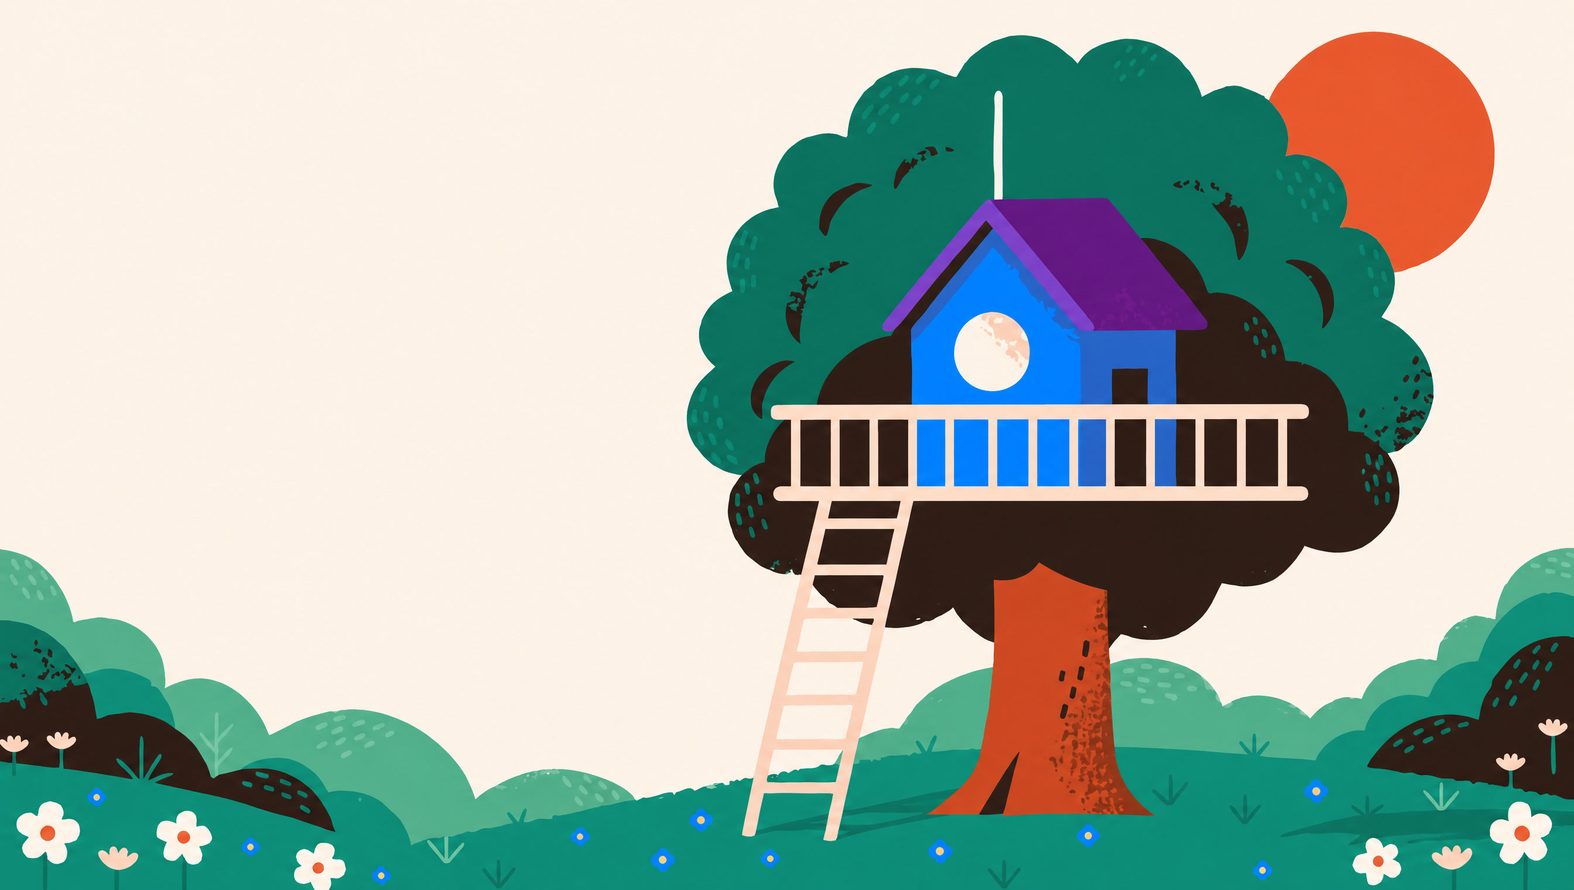
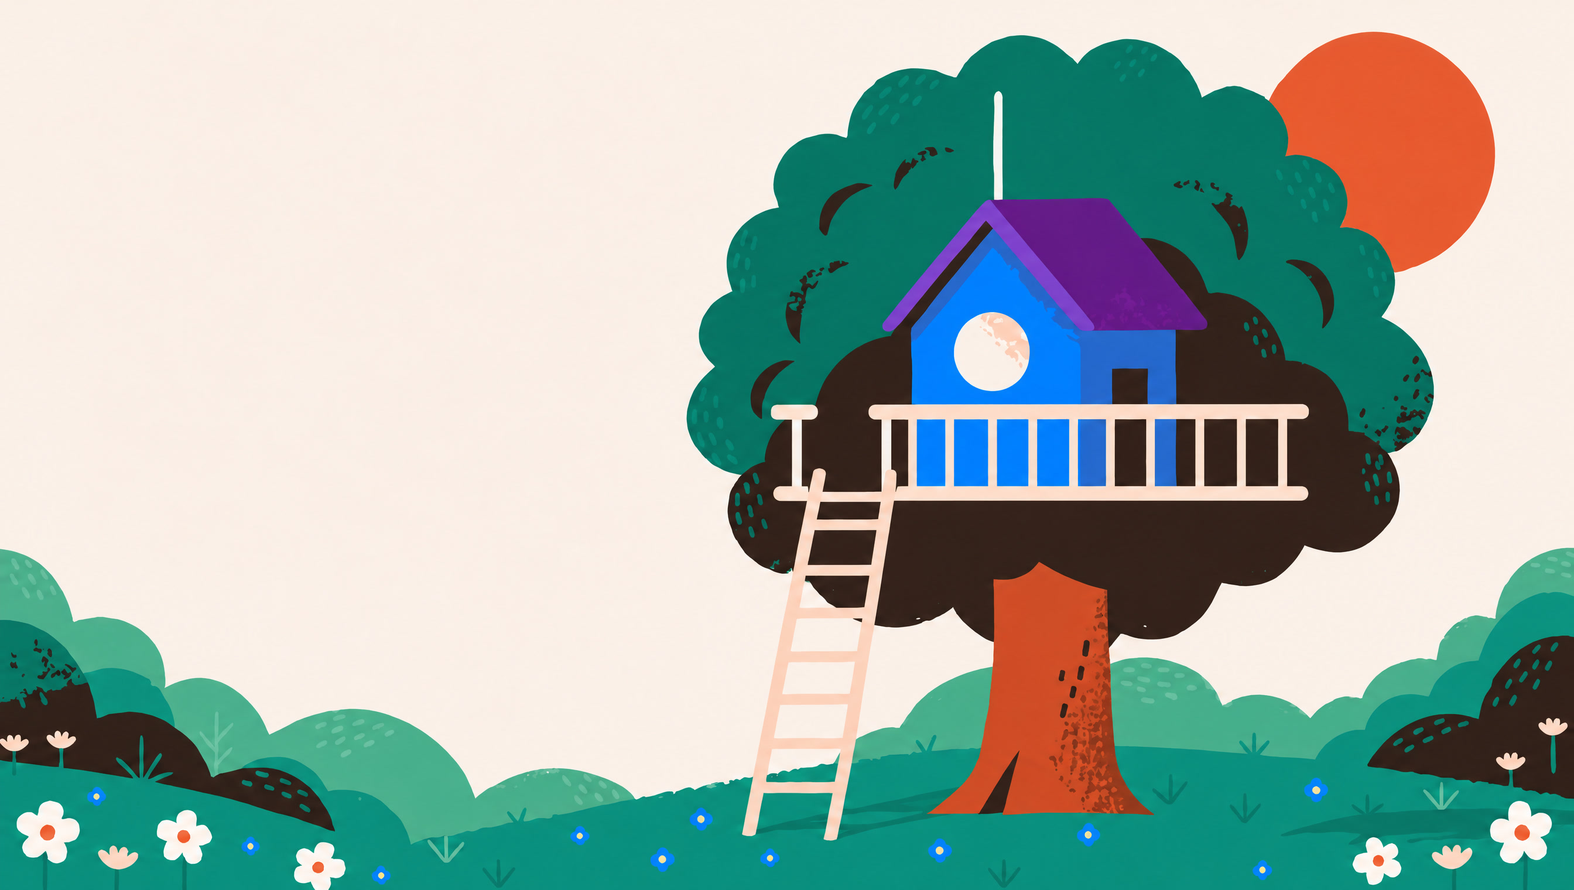
Fix the intro video's treehouse railing and the animatic's review findings
The railing opens for the ladder and for the slide; the village is
rebuilt around the same treehouse; the end card keeps the motto at the
top with the guide line under the name; the animatic's timing, layout,
and continuity follow its independent review.

Claude-Session: https://claude.ai/code/session_01HWRLNP4zRgNHV44X9u2tkQ

diff --git a/docs/video/intro/animatic-page.js b/docs/video/intro/animatic-page.js
@@ -19,16 +19,20 @@ const fade = (o, inner) => o <= 0 ? '' : `<g opacity="${clamp(o).toFixed(3)}">${
 const R = `<line x1="43.5" y1="34" x2="43.5" y2="23" stroke="${CREAM}" stroke-width="5"/><circle cx="43.5" cy="19" r="5.5" fill="${CREAM}"/><rect x="36" y="32" width="15" height="66" fill="${CREAM}"/><path d="M43.5 39.5 H68 a18.5 18.5 0 0 1 0 37 H43.5" fill="none" stroke="${CREAM}" stroke-width="15"/><polygon points="56,76 77,76 99,98 78,98" fill="${CREAM}"/><circle cx="65" cy="58" r="6.5" fill="${INK}"/>`;
 const face = (x, y, brand) => { const bar = (bx, by, w) => `<rect x="${bx}" y="${by}" width="${w}" height="8" rx="4"/>`;
   return brand ? `<svg x="${x}" y="${y}" width="76" height="76" viewBox="0 0 128 128"><rect width="128" height="128" rx="26" fill="${O}"/><path d="M0 26 A26 26 0 0 1 20 1 V127 A26 26 0 0 1 0 102 Z" fill="${SP}"/><g transform="translate(9 8.5) scale(.64)">${R}</g><g fill="${TI}">${bar(79, 29, 29)}${bar(79, 46, 29)}${bar(79, 63, 29)}${bar(32, 82, 76)}${bar(32, 97, 50)}</g></svg>`
-    : `<rect x="${x}" y="${y}" width="76" height="76" rx="16" fill="#A8A297"/><circle cx="${x + 26}" cy="${y + 34}" r="6" fill="#ECE7DF"/><circle cx="${x + 50}" cy="${y + 34}" r="6" fill="#ECE7DF"/>`; };
+    : `<rect x="${x}" y="${y}" width="76" height="76" rx="16" fill="#A8A297"/>`; };
 function bubble(who, s, y, p, brand, typed = 1) {
   if (p <= 0) return '';
-  const size = 34, pad = 28, h = 72, x = who === 'you' ? 110 : 200, w = Math.round(s.length * size * .56) + pad * 2;
-  const shown = s.slice(0, Math.ceil(s.length * clamp(typed)));
-  return pop(p, x + 40, y + 36, `<g filter="url(#soft)">${who === 'you' ? '' : face(x - 90, y - 2, brand)}<rect x="${x}" y="${y}" width="${w}" height="${h}" rx="36" fill="${who === 'you' ? INK : '#FFFFFF'}"/>${txt(shown, x + pad, y + 47, size, who === 'you' ? CREAM : INK, 500)}</g>`);
+  const size = 34, pad = 28, lines = s.split('\n'), h = 72 + 42 * (lines.length - 1), x = who === 'you' ? 110 : 200;
+  const w = Math.round(Math.max(...lines.map((l) => l.length)) * size * .56) + pad * 2;
+  let left = Math.ceil(s.length * clamp(typed));
+  const shown = lines.map((l) => { const part = l.slice(0, Math.max(0, left)); left -= l.length + 1; return part; });
+  return pop(p, x + 40, y + 36, `<g filter="url(#soft)">${who === 'you' ? '' : face(x - 90, y - 2, brand)}<rect x="${x}" y="${y}" width="${w}" height="${h}" rx="36" fill="${who === 'you' ? INK : '#FFFFFF'}"/>${shown.map((l, i) => txt(l, x + pad, y + 47 + 42 * i, size, who === 'you' ? CREAM : INK, 500)).join('')}</g>`);
 }
 // rows: [who, words, at]. Your words are typed as they arrive. Rows stack down from y0.
 const talk = (rows, t, brand, y0 = 290, gap = 88) => rows.map(([who, s, at], i) => bubble(who, s, y0 + i * gap, at < 0 ? 1 : prog(t, at, .35), brand, who === 'you' && at >= 0 ? prog(t, at + .1, Math.min(.9, s.length * .035)) : 1)).join('');
 const heading = (t, a, b, colourB, size = 60, atB = .45) => rise(prog(t, .1), txt(a, 110, 140, size, INK)) + (b ? rise(prog(t, atB), txt(b, 110, 140 + size * 1.15, size, colourB)) : '');
+// A picture of the slide alone over the flag picture: the slide arrives and nothing else changes.
+const slideIn = (p, scale = 1, cx = 960, cy = 540) => { show('08-flag', 1, scale, cx, cy); if (p > 0) { clipRect(0, 0, 1920, 1080 * p); show('09-slide-diff', 1, scale, cx, cy, 'clipA'); } };
 
 /* The page: pictures below, words above. */
 const film = document.getElementById('film');
@@ -57,32 +61,32 @@ const dissolve = (a, b, p, fn = show) => { fn(a, 1); fn(b, ease(p)); };
 const BEATS = [
   // 1. The idea.
   { name: 'idea', dur: 2.5, draw: (t) => { show('01-hill');
-      return heading(t, 'You have an idea.') + talk([['you', 'Build me a treehouse.', .7]], t, false); } },
+      return heading(t, 'You have an idea.') + talk([['you', 'Build me a treehouse.', .3]], t, false); } },
   // 2. Literal: the colour drains, and a box appears with no way up.
   { name: 'literal', dur: 4.5, draw: (t) => { show('01-hill'); show('01-hill-ash', ease(prog(t, 0, .6))); show('02-box-ash', ease(prog(t, .7, .3)));
-      return heading(t, 'Exactly what you said.', 'Not what you meant.', MUTED) + talk([['you', 'Build me a treehouse.', -1], ['agent', 'Done! One treehouse.', 1], ['you', 'How do I get up?', 2.6]], t, false); } },
+      return heading(t, 'Exactly what you said.', 'Not what you meant.', MUTED) + talk([['you', 'Build me a treehouse.', -1], ['agent', 'Done! One treehouse.', .9], ['you', 'How do I get up?', 2]], t, false); } },
   // 3. One change: everything changes, so the new picture wipes across.
   { name: 'one-change', dur: 5.5, draw: (t) => { show('02-box-ash'); const p = inout(prog(t, 1.3, .7)); clipRect(0, 0, 1920 * p, 1080); show('03-pine-ash', p > 0 ? 1 : 0, 1, 960, 540, 'clipA');
-      return heading(t, 'You ask for one change.', 'Everything else changes too.', MUTED) + talk([['you', 'Add a ladder.', .3], ['agent', 'Added! One ladder.', 1.5], ['you', 'Why is it a pine tree?', 3.2]], t, false); } },
+      return heading(t, 'You ask for one change.', 'Everything else changes too.', MUTED, 52) + talk([['you', 'Add a ladder.', .2], ['agent', 'Added! One ladder.', 1.3], ['you', 'Why is it a pine tree?', 2.7]], t, false); } },
   // 4. An addition: the slide, the one thing in colour, lands on the ladder.
   { name: 'addition', dur: 5, draw: (t) => { show('03-pine-ash'); ash('04-slide-on-ladder', ease(prog(t, 1.3, .3)));
-      return heading(t, 'You add what you forgot.', 'It gets bolted on.', MUTED) + talk([['you', 'And a slide.', .3], ['agent', 'Added! One slide.', 1.4], ['you', "It's blocking the ladder.", 2.9]], t, false); } },
+      return heading(t, 'You add what you forgot.', 'It gets bolted on.', MUTED) + talk([['you', 'And a slide.', .2], ['agent', 'Added! One slide.', 1.2], ['you', "It's blocking the ladder.", 2.3]], t, false); } },
   // 5. Micromanaging: one order, and the questions pile up.
   { name: 'micromanage', dur: 8, draw: (t) => { ash('04-slide-on-ladder');
       return heading(t, 'So you micromanage.', 'Now it asks about everything.', MUTED) + talk([['you', 'Ask before you change anything.', .6], ['agent', 'May I pick up the hammer?', 2.4], ['agent', 'May I use the hammer?', 3.7], ['agent', 'May I put the hammer down?', 5]], t, false); } },
   // 6. Next session: the conversation is wiped, and a second box appears.
-  { name: 'next-session', dur: 5.5, draw: (t) => { ash('04-slide-on-ladder'); ash('05-second-box', ease(prog(t, 4.2, .3)));
+  { name: 'next-session', dur: 5.5, draw: (t) => { ash('04-slide-on-ladder'); ash('05-second-box', ease(prog(t, 3.3, .4)));
       const gone = 1 - ease(prog(t, 0, .45)), line = ease(prog(t, .45, .4));
       const old = fade(gone, `<g transform="translate(0 ${(-60 * (1 - gone)).toFixed(1)})">${heading(9, 'So you micromanage.', 'Now it asks about everything.', MUTED)}${talk([['you', 'Ask before you change anything.', -1], ['agent', 'May I pick up the hammer?', -1], ['agent', 'May I use the hammer?', -1], ['agent', 'May I put the hammer down?', -1]], 9, false)}</g>`);
-      const divider = fade(line, `<line x1="110" y1="276" x2="${(110 + 470 * line).toFixed(1)}" y2="276" stroke="${MUTED}" stroke-width="3" stroke-dasharray="10 9"/>${txt('New session', 600, 286, 30, MUTED, 700)}`);
+      const divider = fade(line, `<line x1="110" y1="276" x2="${(110 + 470 * line).toFixed(1)}" y2="276" stroke="${MUTED}" stroke-width="3" stroke-dasharray="10 9"/>${txt('New session', 600, 288, 34, MUTED, 700)}`);
       return old + (t > .5 ? heading(t - .5, 'The next session,', 'it remembers nothing.', MUTED) : '') + divider
-        + talk([['you', "Let's keep going.", 1.2], ['agent', 'Sure! What are we working on?', 2.2], ['you', 'The treehouse.', 3.3], ['agent', 'Done! One treehouse.', 4.3]], t, false, 318, 84); } },
+        + talk([['you', "Let's keep going.", .9], ['agent', 'Sure! What are we working on?', 1.7], ['you', 'The treehouse.', 2.6], ['agent', 'Done! One treehouse.', 3.9]], t, false, 318, 84); } },
   // 7. The turn.
   { name: 'turn', dur: 4, draw: (t) => { ash('05-second-box'); const w = 1920 * inout(prog(t, 0, .5));
       return `<rect width="${w.toFixed(1)}" height="1080" fill="${O}"/><rect width="${Math.min(96, w).toFixed(1)}" height="1080" fill="${SP}"/>`
         + pop(prog(t, .35, .5), 1560, 520, `<circle cx="1560" cy="520" r="430" fill="#EB6A43" opacity=".55"/><g transform="translate(1166 196) scale(6.1)" filter="url(#soft)">${R}</g>`)
         + rise(prog(t, .45), txt('What you wanted', 190, 430, 110, CREAM), 40) + rise(prog(t, .9), txt('was a collaborator.', 190, 560, 110, TI), 40)
-        + rise(prog(t, 2.1), txt('Rules for Robots gives you a whole team of them.', 194, 700, 48, CREAM, 500), 24); } },
+        + rise(prog(t, 2), txt('Rules for Robots gives you', 194, 700, 60, CREAM, 500) + txt('a whole team of them.', 194, 774, 60, CREAM, 500), 24); } },
   // 8. It asks first: the hill, the sketch, then the treehouse built up to it.
   { name: 'asks', dur: 6.5, draw: (t) => { show('01-hill'); show('06-sketch', ease(prog(t, 3.2, .5)));
       const b = inout(prog(t, 4.9, .9)); clipRect(0, 1080 * (1 - b), 1920, 1080); show('07-bare-pole', b > 0 ? 1 : 0, 1, 960, 540, 'clipA');
@@ -92,30 +96,30 @@ const BEATS = [
   { name: 'decision', dur: 3.5, draw: (t) => { show('07-bare-pole'); show('08-flag', ease(prog(t, 2.2, .4)));
       const flag = (x, fill, at) => pop(prog(t, at, .35), x + 50, 560, `<line x1="${x}" y1="500" x2="${x}" y2="640" stroke="${INK}" stroke-width="8" stroke-linecap="round"/><path d="M${x + 4} 504 C${x + 34} 492 ${x + 60} 520 ${x + 112} 502 L${x + 86} 530 L${x + 116} 556 C${x + 66} 552 ${x + 40} 574 ${x + 4} 558 Z" fill="${fill}"/>`);
       return heading(t, 'It asks you what only', 'you can decide.', INK) + talk([['agent', 'The flag: orange or violet?', .3], ['you', 'Orange.', 1.5]], t, true, 310)
-        + flag(480, O, .6) + flag(660, P, .75) + `<rect x="452" y="474" width="172" height="186" rx="18" fill="none" stroke="${O}" stroke-width="7" opacity="${ease(prog(t, 1.8, .3)).toFixed(3)}"/>`; } },
+        + fade(1 - ease(prog(t, 2.7, .4)), flag(480, O, .6) + flag(660, P, .75) + `<rect x="452" y="474" width="172" height="186" rx="18" fill="none" stroke="${O}" stroke-width="7" opacity="${ease(prog(t, 1.8, .3)).toFixed(3)}"/>`); } },
   // 10. The record.
   { name: 'record', dur: 5, draw: (t) => { show('08-flag');
-      const row = (i, a, b) => rise(prog(t, 1.1 + i * .7, .35), `<circle cx="164" cy="${548 + i * 118}" r="10" fill="${O}"/>${txt(a, 194, 560 + i * 118, 38, INK)}${txt(b, 194, 604 + i * 118, 32, MUTED, 500)}`, 16);
-      return heading(t, 'It writes down why.') + talk([['agent', 'Noted, so the next session knows too.', .3]], t, true)
-        + pop(prog(t, .7, .4), 430, 570, `<g filter="url(#soft)"><rect x="114" y="412" width="640" height="340" rx="20" fill="#FFFFFF"/></g>${txt('Decisions', 150, 476, 38, INK)}`)
+      const row = (i, a, b) => rise(prog(t, 1.1 + i * .7, .35), `<circle cx="164" cy="${588 + i * 118}" r="10" fill="${O}"/>${txt(a, 194, 600 + i * 118, 38, INK)}${txt(b, 194, 644 + i * 118, 32, MUTED, 500)}`, 16);
+      return heading(t, 'It writes down why.') + talk([['agent', 'Noted, so the next session\nknows too.', .3]], t, true)
+        + pop(prog(t, .7, .4), 430, 610, `<g filter="url(#soft)"><rect x="114" y="452" width="640" height="340" rx="20" fill="#FFFFFF"/></g>${txt('Decisions', 150, 516, 38, INK)}`)
         + row(0, 'Flag: orange', 'Your choice.') + row(1, 'Ladder on the left', 'So the kids can climb up.'); } },
   // 11. A change: the slide arrives, and nothing else moves.
-  { name: 'change', dur: 4.5, draw: (t) => { show('08-flag'); const p = inout(prog(t, 1.2, .9)); clipRect(1100, 480, 820, 600 * p); show('09-slide', p > 0 ? 1 : 0, 1, 960, 540, 'clipA');
-      return talk([['you', 'Add a slide.', .3], ['agent', 'Added. Nothing else moved.', 2]], t, true) + (t > 2.6 ? heading(t - 2.6, 'A change is a change.', 'Not a restart.', SP) : ''); } },
+  { name: 'change', dur: 4.5, draw: (t) => { slideIn(inout(prog(t, .8, .9)));
+      return talk([['you', 'Add a slide.', .1], ['agent', 'Added. Nothing else moved.', 1.4]], t, true) + (t > 2 ? heading(t - 2, 'A change is a change.', 'Not a restart.', SP) : ''); } },
   // 12. The promise: the view pulls back from the one treehouse to the village, and the motto arrives.
   { name: 'promise', dur: 4.5, draw: (t) => { const p = inout(prog(t, 0, 1.4));
-      show('09-slide', 1 - ease(prog(t, .5, .7)), 1 - .45 * p, 1290, 560); show('10-village', ease(prog(t, .2, .8)), 2.1 - 1.1 * p, 905, 640);
+      const o = 1 - ease(prog(t, .5, .7)); if (o > 0) { show('08-flag', o, 1 - .45 * p, 1290, 560); clipRect(0, 0, 1920, 1080); show('09-slide-diff', o, 1 - .45 * p, 1290, 560, 'clipA'); } show('10-village', ease(prog(t, .2, .8)), 2.1 - 1.1 * p, 905, 640);
       return rise(prog(t, 1.4), txt('A skilled team building your biggest ideas,', 960, 96, 54, INK, 700, 'middle')) + rise(prog(t, 1.9), txt('the way you envision them.', 960, 164, 54, SP, 700, 'middle')); } },
-  // 13. End: the motto stays and the end card forms around it.
+  // 13. End: the motto stays at the top, and the name comes out below it with the guide line under it.
   { name: 'end', dur: 5.5, draw: (t) => { const p = inout(prog(t, 0, .7)); show('10-village', 1 - p);
-      const y1 = 96 + (520 - 96) * p, y2 = 164 + (582 - 164) * p;
-      placeMark('rules-for-robots', 470, 300, 150, ease(prog(t, .5, .4)));
-      ['engineering', 'creation', 'research'].forEach((m, i) => placeMark(m, 720 + i * 78, 668, 64, ease(prog(t, 1.6 + i * .1, .35))));
-      return txt('A skilled team building your biggest ideas,', 960, y1, 46, INK, 500, 'middle') + txt('the way you envision them.', 960, y2, 46, SP, 500, 'middle')
-        + rise(prog(t, .5), txt('Rules for Robots', 650, 410, 104, INK))
-        + rise(prog(t, 1.5), txt('Rules and plugins for Claude Code.', 960, 650, 30, MUTED, 500, 'middle'))
-        + rise(prog(t, 1.6), txt('github.com/RulesForRobots', 970, 716, 40, INK, 700))
-        + rise(prog(t, 2.6), txt('(Yes, you may put the hammer down.)', 960, 900, 38, MUTED, 500, 'middle')); } },
+      placeMark('rules-for-robots', 413, 360, 150, ease(prog(t, .5, .4)));
+      ['engineering', 'creation', 'research'].forEach((m, i) => placeMark(m, 552 + i * 78, 688, 64, ease(prog(t, 1.6 + i * .1, .35))));
+      return txt('A skilled team building your biggest ideas,', 960, 96, 54, INK, 700, 'middle') + txt('the way you envision them.', 960, 164, 54, SP, 700, 'middle')
+        + rise(prog(t, .5), txt('Rules for Robots', 593, 470, 104, INK))
+        + rise(prog(t, 1), txt('A practical guide for people and agents who work together', 597, 530, 32, SP, 500))
+        + rise(prog(t, 1.6), txt('github.com/RulesForRobots', 802, 734, 40, INK, 700))
+        + rise(prog(t, 1.7), txt('Rules and plugins for Claude Code.', 960, 820, 36, '#4A3F38', 500, 'middle'))
+        + rise(prog(t, 2.6), txt('(Yes, you may put the hammer down.)', 960, 950, 38, MUTED, 500, 'middle')); } },
 ];
 let acc = 0; for (const b of BEATS) { b.start = acc; acc += b.dur; }
 window.__total = acc; window.__beats = BEATS.map((b) => [b.name, b.start, b.dur]);

diff --git a/docs/video/intro/design.md b/docs/video/intro/design.md
@@ -9,13 +9,13 @@ Stage 4 of [the process](../process.md), 2026-11-14. Approved after the retake o
 | `03-pine.jpg` | 3 | 02, the tree a pine, the box moved, a ladder | `1f8ae0dc-6922-41a7-9e7f-28aec06d7f49` | `667e8137-8e1b-4b35-b02c-d8110e39be17` |
 | `04-slide-on-ladder.jpg` | 4, 5 | 03, then the maintainer's note: the top of the slide covers the top of the ladder, and the ladder's foot pokes out from behind the slide's base | `11f2280b-889e-426a-8a17-315464f7361c` | `33c409d4-557d-4706-a58e-0153f4323cb6`, `27538294-b01a-4cfd-ad41-c22fdcf8a214`; earlier, `6cc9c2b6-0828-45ae-b0c1-136697f3519c` (the slide across the ladder) and `d01c90c7-9453-4356-8011-5ad28a99d283`, and two that hid the ladder, `4cc4d401-e006-4dc3-9d43-a0a2fa93a182`, `e11de493-78b1-4603-bf13-4c3de0e27f87` |
 | `05-second-box.jpg` | 6 | 04 as revised, a second box | `d4c2b39e-0236-40ea-8e09-8799c2be252b` | `d461b3ba-2fca-4c8e-8844-c4db24ccc7bc`; from the earlier 04, `0c4ce00e-5dbc-4771-865d-c1e678613236`, `61dbb629-6a12-4b53-a385-bd83a0065091` |
-| `06-sketch.jpg` | 8 | 01 and 07, a pencil sketch of the treehouse | `fc269f15-72dc-42b1-8448-dafec19d0f90` | `2c55c42e-7c06-4ab2-b3bd-ad8b5d79ced4` |
-| `07-bare-pole.jpg` | 8 | The master, slide and flag removed | `250694c6-709a-4456-9db3-2451de952700` | `b9d3c6c5-9703-41ec-89ef-4a8165b1513d` |
-| `08-flag.jpg` | 9, 10 | 07, the flag added | `ad84a61b-6fd5-42e6-8ddb-2b0290c85879` | `6fbda81d-8a4b-451d-8d72-91858f503faf`; and one edited from the master, whose railing changed colour, `a5fdd6f4-ffae-438b-9459-b7ab37ea8030` |
-| `09-slide.jpg` | 11 | 08, the master's slide added | `85d4114f-0da6-4f2c-b98d-c44a888666ba` | `b76746dc-5630-42ac-956b-96a3d3b47eaf` |
-| `10-village.jpg` | 12 | The master and four designs (see the README) | `39c12b84-59e1-4bb5-916b-fc7838046916` | `69a1a920-e3e0-4cdd-a792-9f3cdcabc40e` |
+| `06-sketch.jpg` | 8 | 01 and 07 as revised, a pencil sketch of the treehouse | `6ce68f6b-c378-4b8a-b7de-3563ccb3bc91` | `c28892ed-d626-4dbd-a346-9e3b6bcd6af5`; from the earlier 07, `fc269f15-72dc-42b1-8448-dafec19d0f90`, `2c55c42e-7c06-4ab2-b3bd-ad8b5d79ced4` |
+| `07-bare-pole.jpg` | 8 | The master, slide and flag removed (`250694c6-709a-4456-9db3-2451de952700`), then an opening in the railing above the ladder | `87d1c5c9-3145-44c5-a6c7-16014f2917a2` | `7a7c802b-75af-4511-9dd1-7594c8077cf2`; and `b9d3c6c5-9703-41ec-89ef-4a8165b1513d` |
+| `08-flag.jpg` | 9, 10 | 07 as revised, the flag added | `bfd1ec8e-3a7e-49e8-94ca-b28c55affdfd` | `b90d2789-cad8-4111-bc77-726b9e920b30`; from the earlier 07, `ad84a61b-6fd5-42e6-8ddb-2b0290c85879`, `6fbda81d-8a4b-451d-8d72-91858f503faf`; and one edited from the master, whose railing changed colour, `a5fdd6f4-ffae-438b-9459-b7ab37ea8030` |
+| `09-slide.jpg` | 11 | 08 as revised, the master's slide added with an opening in the railing at its top | `289e9528-8bdc-4569-b683-81dda371bd31` | `eae4ee17-6b98-445b-a418-0df575e8cecc` (railing left across the slide); from the earlier 08, `85d4114f-0da6-4f2c-b98d-c44a888666ba`, `b76746dc-5630-42ac-956b-96a3d3b47eaf` |
+| `10-village.jpg` | 12 | The village (`39c12b84-59e1-4bb5-916b-fc7838046916`) with its centre treehouse replaced by 09 as revised, and the sun kept | `f1d350a0-1a9e-4384-a26c-3297c7060633` | `54b67efa-3db2-43d8-8667-c0f5262217ce`; earlier, `39c12b84-59e1-4bb5-916b-fc7838046916`, `69a1a920-e3e0-4cdd-a792-9f3cdcabc40e` |
 
-The maintainer's note on 04 (2026-11-14): "it works best if the top of the slide completely obscures the top of ladder ... but the ladder pokes out from behind the base". 04 and 05 were retaken to it. This stage cost 71.5 credits (26 takes); 222 have been spent on the film.
+The maintainer's note on 04 (2026-11-14): "it works best if the top of the slide completely obscures the top of ladder ... but the ladder pokes out from behind the base". 04 and 05 were retaken to it. After the animatic, the maintainer's note: "in the post-turn treehouse, the railing blocks both the top of the ladder and the top of the slide." 07 was retaken with an opening above the ladder, then 08, 09 (with an opening at the slide's top), and 06 were made again from it; and the animatic's review found the village's centre treehouse different from 09 and its sun gone, so 10 was rebuilt from 09. This stage cost 99 credits (36 takes); 249.5 have been spent on the film.
 
 What the code adds, not the pictures: the grey of beats 2 to 6 with the slide kept in colour, the bubbles and headings, the new-session divider, the turn, the decisions card, and the end card.
 

diff --git a/docs/video/intro/script.md b/docs/video/intro/script.md
@@ -22,7 +22,7 @@ The brief is in the [README](README.md): for people who already work with agents
 | 10 | The record | A card of decisions beside the treehouse. | Heading: It writes down why. Agent: Noted, so the next session knows too. Card: Flag: orange. Your choice. Ladder on the left. So the kids can climb up. | 5 | 26 |
 | 11 | A change | The slide unrolls from the deck to the grass. Nothing else moves. | You: Add a slide. Agent: Added. Nothing else moved. Heading: A change is a change. Not a restart. | 4.5 | 15 |
 | 12 | The promise | The view pulls back: one treehouse is one of five, each a different building of the same family, joined by bridges. | The motto: A skilled team building your biggest ideas, the way you envision them. | 4.5 | 12 |
-| 13 | End | The village gives way to the end card; the motto stays where it is and the name arrives above it. Then where to find it. | Rules for Robots. (The motto, already on screen.) Rules and plugins for Claude Code. github.com/RulesForRobots. (Yes, you may put the hammer down.) | 5.5 | 15 |
+| 13 | End | The village gives way to the end card; the motto stays at the top, and the name comes out below it. | (The motto, at the top.) Rules for Robots. A practical guide for people and agents who work together. github.com/RulesForRobots. Rules and plugins for Claude Code. (Yes, you may put the hammer down.) | 5.5 | 24 |
 | | | | **Total** | **64.5** | **237** |
 
 Every beat is at or under four words a second except the record (5.2) and the end (4.7), where the words are a list to glance at and not lines to read in turn.
@@ -40,6 +40,8 @@ Every beat is at or under four words a second except the record (5.2) and the en
 - **The motto.** The maintainer, on the promise line: "this should emerge as the Rules for Robots motto." Beat 12's line is the motto, and the film builds to it: it appears over the village and stays on screen as the end card forms around it, under the name. It replaces the end card's "A practical guide for people and agents who work together". The wording is the copywriter's top pick with the maintainer's word "envision", and is not yet approved as the motto.
 
 - **The turn's second line.** The maintainer: "take the copywriters advice for the turn's second line." It is "Rules for Robots gives you a whole team of them.", which leads to the team in the motto.
+
+- **End card, after the animatic.** The maintainer: "leave the motto at the top of the end slide when Rules for Robots comes out and put the 'practical guide...' text back under Rules for Robots".
 
 Decided earlier: the master runs about 60 seconds ("60 seconds sounds good"), and a 30-second cut is made at stage 10.
 

diff --git a/docs/video/intro/README.md b/docs/video/intro/README.md
@@ -64,6 +64,8 @@ The scripts end in `.cjs` because this repository's `package.json` makes `.js` f
 
 **Stage 5, the animatic.** `node animatic.cjs` renders `out/animatic.mp4` (64.5 seconds) from the approved pictures in `design/` and the approved script, with cuts, dissolves, and wipes only; `node animatic.cjs sheet` writes two frames of each beat. The timing and every word are in `animatic-page.js`. The ash of beats 2 to 6 is made by ffmpeg, and the slide is kept in colour by a mask cut by its colour; the slide's darker rim falls outside that mask and shows grey, which the finals should fix with a proper mask. `film.cjs`, `film-page.js`, `art.cjs`, `kit.cjs`, and `style/` are the trial's, kept as its record.
 
+An independent review of the first animatic (2026-11-15) passed the story and found: last lines held under a second and a half in beats 1, 2, 4, 6, and 11; the second box with no moment of its own; words touching the pictures in beats 3 and 10; the end card off centre with a small plain line; the village's centre treehouse different from beat 11 and its sun gone; a tone shift around the slide in beat 11; the offered flags left on screen; and the bad agent's two-dot face as a second robot. All are fixed in the second animatic: the lines come sooner, the box arrives on "The treehouse.", the Noted line runs to two lines, the slide in beat 11 is the pixels where 09 differs from 08 laid over 08, the bad agent is a plain grey square, and the village is rebuilt. The review's list of what generated motion must do for each change is the brief for stage 6. Still open from it: the grey box in beat 2 is hard to see on the grey tree, and beat 5 mocks asking three beats before beat 8 praises it.
+
 **The motto.** On 2026-11-14 the maintainer said the film's promise line "should emerge as the Rules for Robots motto". The social preview keeps "A practical guide for agent collaborators" under the name for now, at the maintainer's word: "It makes it a bit clearer on the landing page what it is." The motto is the film's, and the end card's.
 
 **From 2026-11-14 the film follows [the process](../process.md), one approved stage at a time.** The maintainer asked to "back up and do the professional process" in place of rendering the film again after each change. Where it stands: the brief is above; the script is drafted in [`script.md`](script.md) and waits for the maintainer; the look (vector B) and the village's five designs are approved in concept; design, the animatic, motion, sound, and the cuts follow in order. The six cuts so far are the trial that the process was written from, and the list below is its record.
